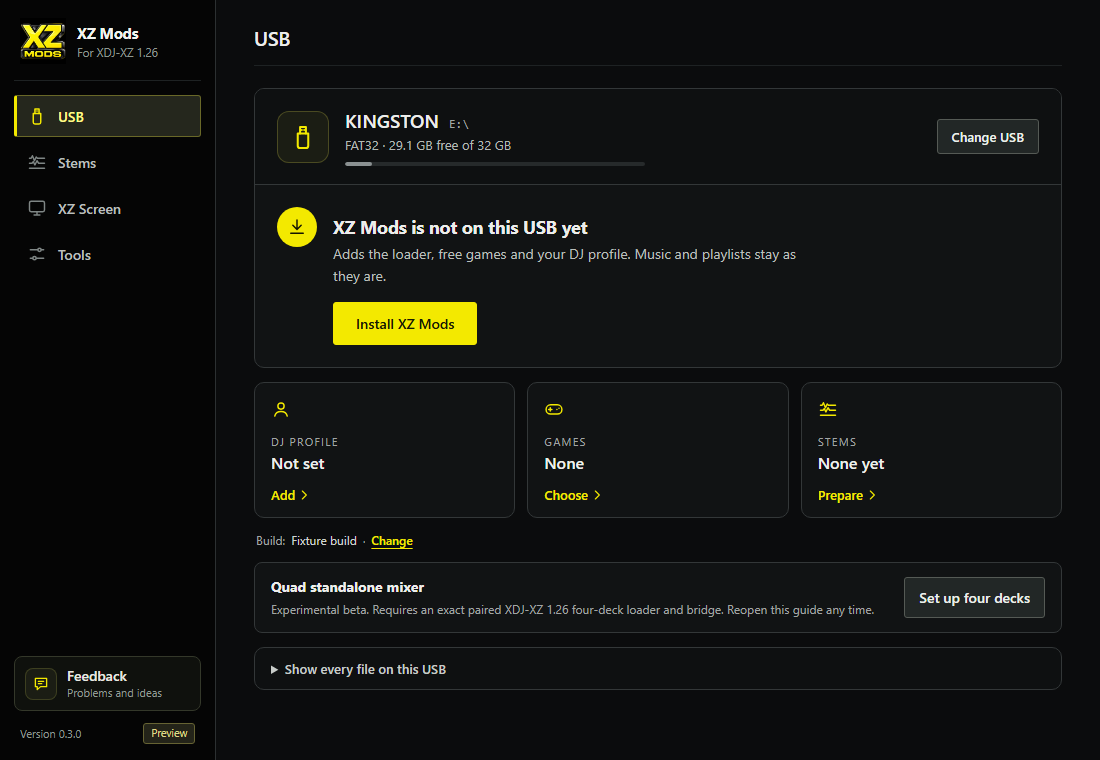
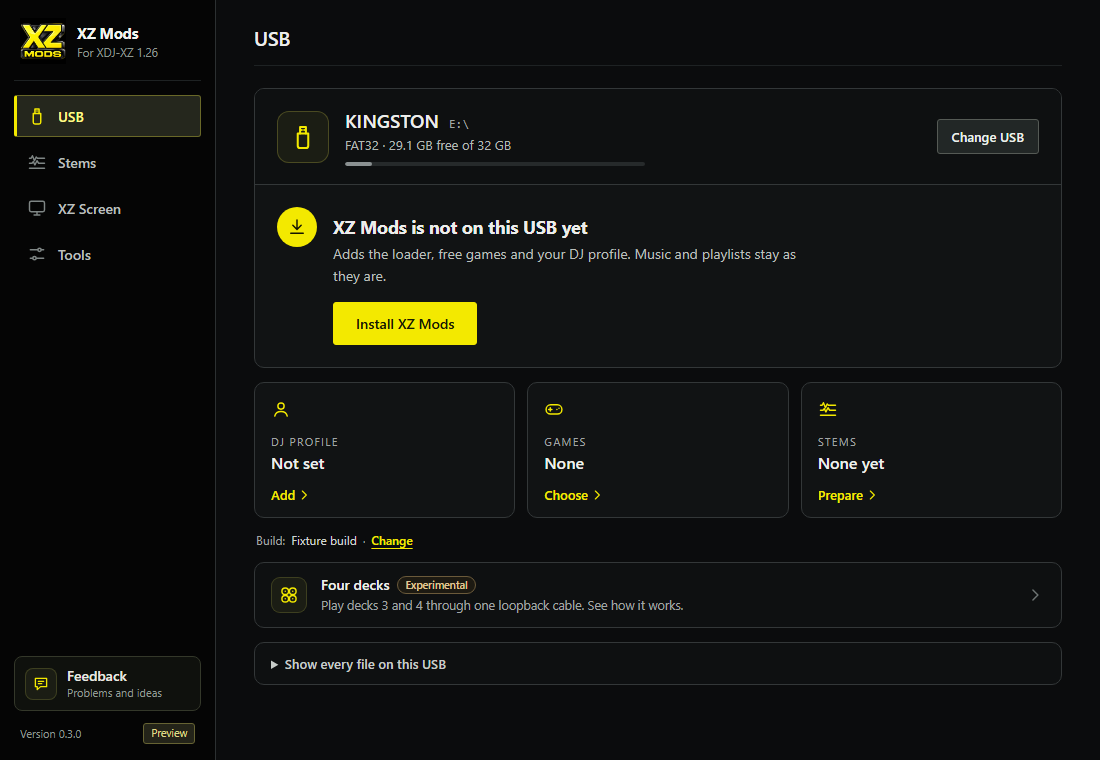
Manual: About, four decks after the write, the rekordbox button
The XZ Mods app chapter describes the new About page, the install guide
without a four-deck step (six steps), the Four decks section under a
running write and on the done screen, and the Four decks row on the USB
pages, in a new Four decks in the app section. Getting started drops the
cable guide from the guide's steps; Four decks notes the app shows the
same steps.

Every chapter calls the media button above LINK the rekordbox button,
and the MODS page REKORDBOX BUTTON, as the firmware now does.

The USB, install, Tools and About screenshots are retaken from
verify_setup_wizard and verify_support_reports at 1100 px wide;
install-four-decks now shows the done screen's Four decks section.
Not accepted: build_manual.py check lists them for review.

Changed region(s): [[0.2473, 0.7566, 0.9582, 0.9079]]

diff --git a/manual/chapters/desktop-app.md b/manual/chapters/desktop-app.md
@@ -64,8 +64,8 @@ A fresh USB. XZ Mods is not on it yet, so the one action is Install XZ Mods.
 8 @ 604,442 Games | How many games are on the USB. Choose opens the games list.
 9 @ 870,442 Stems | How many tracks have stems. Prepare opens the Stems section.
 10 @ 430,541 Build | The XZ Mods build that goes on the USB. Change opens XZ Mods version.
-11 @ 1064,598 Set up four decks | The cable guide for four decks. It installs nothing.
-12 @ 464,669 Show every file | A read-only list of what XZ Mods keeps on this USB.
+11 @ 1064,595 Four decks | How four decks work. It sets nothing up. See [Four decks in the app](#four-decks-in-the-app).
+12 @ 464,664 Show every file | A read-only list of what XZ Mods keeps on this USB.
 13 @ 152,676 Feedback | Reports and ideas for the maintainer. See [Feedback](desktop-app#feedback).
 ```
 
@@ -93,15 +93,15 @@ Every step ends in the same bar. **Back** on the left returns to the step before
 
 1. **Your DJ profile.** Appears when the USB has no profile yet. Type your name and add a logo, or choose **Skip for now** and add it later.
 2. **Choose the screen the XZ shows.** New interface (MODERN) or Standard XDJ-XZ interface (CLASSIC). See [Getting started](getting-started#choose-modern-or-classic).
-3. **Four decks.** The cable guide for decks 3 and 4. **Skip for now** if you play two decks. See [Four decks](four-decks).
-4. **Ready to write.** A checklist of everything the write will do.
-5. **Writing.** The progress of each part.
-6. **Done.** What was written and what to do on the XZ.
-7. **Optional support.** A thank-you page with a voluntary support link. Every feature works whether you contribute or not.
+3. **Ready to write.** A checklist of everything the write will do.
+4. **Writing.** The progress of each part. Underneath, the app explains four decks while you wait.
+5. **Done.** What was written, what to do on the XZ, and how four decks work.
+6. **Optional support.** A thank-you page with a voluntary support link. Every feature works whether you contribute or not.
+
+Four decks is not a step of the guide. Nothing about it happens while the USB is written: you set it up at the player, whenever you want. See [Four decks in the app](#four-decks-in-the-app).
 
 ```gallery
 app:install-profile Your DJ profile. Skip for now leaves it for later
-app:install-four-decks The four-deck cable guide, with the cable animation
 ```
 
 ```figure app:install-screen XZ Mods app · Install XZ Mods
@@ -136,16 +136,16 @@ Beat Arcade, Wave Rider, Rhythm Lab and Static Surfer are built into the loader 
 Press **Write to USB** in the bar under the checklist. If a newer build needs a setting changed on the USB, the app first asks in **Adjust USB settings for this version**. It saves a copy of the settings file first and puts it back if the loader write fails.
 
 ```figure app:install-done XZ Mods app · Install XZ Mods
-Your USB is ready.
+Your USB is ready. Four decks and the optional support link follow further down.
 1 @ 757,180 Result | Your USB is ready, or Finished, with something to check.
-2 @ 520,246 What was written | One line per part. A game that did not download says why.
-3 @ 1020,340 Set up four decks | Opens the cable guide again.
-4 @ 757,408 Support XZ Mods | The optional support page.
-5 @ 372,455 On the XZ | What to do with the USB next.
+2 @ 575,246 What was written | One line per part. A game that did not download says why.
+3 @ 372,319 On the XZ | What to do with the USB next, and how to switch between CLASSIC and MODERN with the rekordbox button above LINK.
+4 @ 490,554 Four decks | How four decks work. See [Four decks in the app](#four-decks-in-the-app).
+5 @ 808,728 Done | Back to the dashboard.
 6 @ 1062,728 Eject USB | Ejects the USB so you can unplug it.
-7 @ 808,728 Done | Back to the dashboard.
-8 @ 505,629 Eject by itself | Ejects the USB on its own after the next write.
 ```
+
+Under Four decks, **Support XZ Mods (optional)** opens the optional support page, and **Eject the USB by itself next time** ejects the USB on its own after the next write.
 
 If a game download failed, **Retry the failed games** tries only those, and the USB is not ejected until you have. When the write also saved a DJ profile, **Make the profile track** opens the profile track steps.
 
@@ -153,6 +153,21 @@ If a game download failed, **Retry the failed games** tries only those, and the 
 app:install-writing Writing. The progress of each part shows inside the guide
 app:install-ejected The USB is ejected and can be unplugged
 ```
+
+### Four decks in the app {experimental}
+
+[Four decks](four-decks) is set up at the player, so the app explains it rather than asking you to do anything. The USB list and the dashboard show a **Four decks** row. While a USB is written, and again on the done screen, a Four decks section shows the cable animation and the three things to do at the player.
+
+```figure app:install-four-decks XZ Mods app · Install XZ Mods
+The Four decks section on the done screen.
+1 @ 490,51 Four decks | Experimental. Nothing to do now. You set it up at the player when you want it.
+2 @ 560,300 Cable animation | The loopback cable from the rear USB-B socket to top USB 1.
+3 @ 1006,387 Pause cable animation | Stops and starts the animation. With reduced motion turned on, the app shows a still picture.
+4 @ 650,500 At the player | Cable from the rear USB-B socket to top USB 1, the music stick in USB 2, and CH3 and CH4 set to USB.
+5 @ 478,553 How four decks work | Opens the [Four decks](four-decks) chapter of this manual.
+```
+
+**How four decks work** and the **Four decks** row both open the Four decks chapter of this manual. If the build just written has no four-deck engine, the section says so and offers **Choose the four-deck build**, which opens the four-deck build choice in [XZ Mods version](#xz-mods-version). Save it, then update the USB.
 
 ## Stems
 
@@ -289,7 +304,7 @@ Every tool, in three groups.
 3 @ 453,240 XZ Mods version | Picks which build goes on your USB, or imports one.
 4 @ 456,380 Network updates | Sends the newest XZ Mods to XZs on your network.
 5 @ 424,518 App updates | Checks for a newer app.
-6 @ 789,518 About | The version and open-source licenses.
+6 @ 789,518 About | The app, its maker, links, disclaimers and open-source licenses.
 7 @ 150,655 Feedback | Reports and ideas are not in Tools. They have their own section at the foot of the rail.
 ```
 
@@ -410,12 +425,19 @@ On Windows the app checks for updates by itself at launch and shows **Review upd
 
 ### About
 
-About shows the app version and the open-source licenses.
+About says what XZ Mods is and who makes it, and gathers the links, the disclaimers and the open-source licenses in one place.
 
 ```figure app:about XZ Mods app · About
 About.
-1 @ 518,276 App updates and release notes | Opens App updates.
-2 @ 453,447 Open license notices | Every open-source project XZ Mods uses and its license.
+1 @ 640,135 Version | The app version on this computer.
+2 @ 775,159 Maker | XZ Mods is made by OpticMystic.
+3 @ 620,283 App updates and release notes | Opens App updates.
+4 @ 365,367 The maker | OpticMystic's projects: XZ Mods, VJ.Tools and DJ Profile. Make yours opens DJ Profile.
+5 @ 742,367 Links | The source code, issues and releases on GitHub, xzmods.com and vj.tools. Each opens in your browser.
+6 @ 805,666 Feedback | Opens [Feedback](#feedback) in the app.
+7 @ 920,719 Support XZ Mods (optional) | Voluntary support on Cash App. Every feature stays available.
+8 @ 378,813 Disclaimers | XZ Mods is independent of Pioneer DJ and AlphaTheta, experimental, runs from the USB, and builds its loader from the official firmware for your own use.
+9 @ 960,1012 Open license notices | Every open-source project XZ Mods uses and its license.
 ```
 
 ## Feedback

diff --git a/manual/chapters/hardware.md b/manual/chapters/hardware.md
@@ -16,7 +16,7 @@ The XDJ-XZ from above: the browse section with the touch screen at the top centr
 3 @ 928,106 BACK | Goes up one level, in MODS too.
 4 @ 1062,150 Rotary selector | Turn to move the highlight in MODS, push to select. It drives every MODS page, so you never need the touch screen.
 5 @ 1066,204 SHORTCUT | Opens the SHORTCUT screen as on a stock player. A short MENU on that screen opens MODS.
-6 @ 540,52 Button next to LINK | The media button above LINK. XZ Mods lets you choose what it does, alone and with SHIFT.
+6 @ 540,52 rekordbox button | The media button above LINK, printed rekordbox. XZ Mods lets you choose what it does, alone and with SHIFT.
 7 @ 536,107 LINK | Its stock job. It can also switch the VJ.Tools view on and off.
 8 @ 536,225 TIME MODE and DECK QUANTIZE | Stock on decks 1 and 2. While a side drives deck 3 or 4 they also reach the software decks.
 9 @ 1066,260 LOAD 1, LOAD 2 | Load into the deck that side controls now: deck 1 or 3 on the left, deck 2 or 4 on the right.
@@ -34,8 +34,8 @@ The XDJ-XZ from above: the browse section with the touch screen at the top centr
 | [[BACK]] | Goes up one level. In MODS it steps from an open item to its page, then to the section rail. |
 | Rotary selector, turn | Moves the highlight to the next card, row or button in MODS. On a beat jump pair, after a push, it steps the jump size. |
 | Rotary selector, push | Opens or changes the highlighted item in MODS. |
-| Button next to LINK | Does what you chose in MODS > PLAY > BUTTON NEXT TO LINK. The default is INTERFACE. |
-| [[SHIFT]] + button next to LINK | Hold [[SHIFT]] on either deck and press it. Does the second choice on the same page. The default is ITS OWN JOB. |
+| rekordbox button | Does what you chose in MODS > PLAY > REKORDBOX BUTTON. The default is INTERFACE. |
+| [[SHIFT]] + rekordbox button | Hold [[SHIFT]] on either deck and press it. Does the second choice on the same page. The default is ITS OWN JOB. |
 | [[LINK]] | Its stock job. With the screen switch key set to LINK it also switches the VJ.Tools view on and off. |
 | [[SHORTCUT]] | Opens the SHORTCUT screen. In MODERN this is MODERN's own SHORTCUT screen. |
 | [[LOAD]] 1, 2 | Loads the highlighted track into the deck that side controls: deck 1 or 3, deck 2 or 4. |
@@ -46,13 +46,13 @@ A short press of [[MENU]] keeps the job the player's own firmware gives it where
 ```generated menu-key
 ```
 
-## The button next to LINK
+## The rekordbox button
 
-The XDJ-XZ has a media button directly above [[LINK]]. On a stock player it opens the library of a computer or phone connected to the player. XZ Mods gives it two slots: a plain press, and a press while [[SHIFT]] is held on either deck. Set them in MODS > PLAY > BUTTON NEXT TO LINK.
+The XDJ-XZ has a media button directly above [[LINK]]. On a stock player it opens the library of a computer or phone connected to the player. XZ Mods gives it two slots: a plain press, and a press while [[SHIFT]] is held on either deck. Set them in MODS > PLAY > REKORDBOX BUTTON.
 
-```figure classic:theme-{look}-buttons MODS · BUTTON NEXT TO LINK
+```figure classic:theme-{look}-buttons MODS · REKORDBOX BUTTON
 Both slots at their defaults. A press switches the interface, and SHIFT + press keeps the button's own job.
-1 @ 398,92 Media buttons | The four media buttons as they sit on the player, with the button next to LINK highlighted.
+1 @ 398,92 Media buttons | The four media buttons as they sit on the player, with the rekordbox button highlighted.
 2 @ 185,92 PRESS | What a plain press does. The filled choice is the current one.
 3 @ 420,204 What it does | One line explaining the current PRESS choice.
 4 @ 225,228 SHIFT + PRESS | What the button does while SHIFT is held on either deck.
@@ -70,7 +70,7 @@ Both slots at their defaults. A press switches the interface, and SHIFT + press 
 | DECK VIEW | Steps DECK VIEW: 2 DECKS, 4 DECKS in number order 1 2 3 4, 4 DECKS in mixer order 3 1 2 4, then 2 DECKS again. It saves the choice and shows the new view in a short notice. |
 | NOTHING | The button does nothing. |
 
-> **Tip.** With the default INTERFACE on a plain press, you can always get back to MODS without touching the screen: press [[MENU]] on the play screen, or switch interface with the button next to LINK and press [[MENU]] there.
+> **Tip.** With the default INTERFACE on a plain press, you can always get back to MODS without touching the screen: press [[MENU]] on the play screen, or switch interface with the rekordbox button and press [[MENU]] there.
 
 ## LINK and the VJ.Tools view
 
@@ -81,7 +81,7 @@ When VJ.Tools on a computer is connected, the player's screen can show the VJ.To
 | LINK (default) | Pressing [[LINK]]. [[LINK]] also keeps its stock job. |
 | ONSCREEN | A VJ.Tools button on the screen, in the corner opposite MODS. |
 
-To switch the view with the button next to LINK instead, set that button to VJ.TOOLS SCREEN. See [Connect and DJ profiles](connect) for the connection itself.
+To switch the view with the rekordbox button instead, set that button to VJ.TOOLS SCREEN. See [Connect and DJ profiles](connect) for the connection itself.
 
 ## Deck keys
 
@@ -179,7 +179,7 @@ If the loopback route goes down, both sides go back to decks 1 and 2. [Four deck
 |---|---|
 | [[MENU]] opens a stock menu instead of MODS | That screen has its own MENU job. Press [[BACK]] to the play screen, then press [[MENU]]. |
 | [[MENU]] opens UTILITY | You held it. A short press opens MODS. |
-| The button next to LINK does nothing | It is set to NOTHING. Change it in MODS > PLAY > BUTTON NEXT TO LINK. |
+| The rekordbox button does nothing | It is set to NOTHING. Change it in MODS > PLAY > REKORDBOX BUTTON. |
 | [[SHIFT]] twice shows DECK 3 AND 4 NEED THE CH3/CH4 ROUTE | Decks 3 and 4 are not connected. Open MODS > 4 DECKS. |
 | The TEMPO slider does not change the deck | Pickup after a deck switch. Move the slider through the deck's tempo. |
 | A key sync press shows a message on the deck's key | See [Keys and KEY SYNC](performance#keys-and-key-sync). |

diff --git a/manual/chapters/getting-started.md b/manual/chapters/getting-started.md
@@ -42,7 +42,7 @@ You prepare the USB in the XZ Mods app on your computer. It does not format the 
 1. Install the XZ Mods app and open it.
 2. Plug in your USB. The app finds it and opens it. With several USBs plugged in, choose yours from the list.
 3. Choose **Install XZ Mods**.
-4. Follow the short guide: your DJ profile, the screen the XZ starts with, the four-deck cable guide, then a checklist of what it will write. **Back** returns to the step before.
+4. Follow the short guide: your DJ profile, the screen the XZ starts with, then a checklist of what it will write. **Back** returns to the step before.
 5. Choose **Write to USB**, then **Eject USB**.
 
 ```figure app:install-review XZ Mods app · Install XZ Mods
@@ -104,7 +104,7 @@ Choose the screen the XZ shows. New interface is MODERN, Standard XDJ-XZ interfa
 
 There are two ways to switch.
 
-- Press the button next to LINK. Out of the box it switches between MODERN and CLASSIC, and the screen says which one you are in. You can give it another job in **PLAY** › **BUTTON NEXT TO LINK**.
+- Press the rekordbox button above LINK. Out of the box it switches between MODERN and CLASSIC, and the screen says which one you are in. You can give it another job in **PLAY** › **REKORDBOX BUTTON**.
 - Open MODS, go to **SCREEN** and choose **CLASSIC** or **MODERN** under **INTERFACE**.
 
 ```figure classic:theme-{look}-screen MODS · SCREEN
@@ -117,7 +117,7 @@ INTERFACE is the first choice on the SCREEN page.
 6 @ 715,442 Save state | Confirms the change is saved to the USB.
 ```
 
-> **Tip.** You can always reach MODS with the hardware alone. In CLASSIC, the button next to LINK takes you to MODERN, where [[MENU]] opens MODS, and the encoder and [[BACK]] drive it.
+> **Tip.** You can always reach MODS with the hardware alone. In CLASSIC, the rekordbox button takes you to MODERN, where [[MENU]] opens MODS, and the encoder and [[BACK]] drive it.
 
 ## Updating
 

diff --git a/manual/chapters/performance.md b/manual/chapters/performance.md
@@ -10,13 +10,13 @@ XZ Mods adds performance features to the pads and deck keys: two pages of beat j
 Open MODS and choose PLAY in the section rail.
 
 ```figure classic:theme-{look}-play MODS · PLAY
-The PLAY page with the default settings: gate cue and smart cue off, the default jump sizes, and the button next to LINK on INTERFACE.
+The PLAY page with the default settings: gate cue and smart cue off, the default jump sizes, and the rekordbox button above LINK on INTERFACE.
 1 @ 300,84 BEAT JUMP PADS | Opens the beat jump editor. The numbers are your page 1 and page 2 sizes in beats.
 2 @ 250,132 GATE CUE | Hot cues play only while you hold the pad. Off by default.
 3 @ 600,132 SMART CUE | A hot cue press also moves the CUE point there. Off by default.
 4 @ 230,196 KEYS | Opens the key page: key shift and KEY SYNC for all four decks.
 5 @ 605,196 RAM TRACKS | Opens RAM TRACKS: copy a deck's track into memory.
-6 @ 350,260 BUTTON NEXT TO LINK | What the media button above LINK does, alone and with SHIFT. See Controls on the player.
+6 @ 350,260 REKORDBOX BUTTON | What the rekordbox button does, alone and with SHIFT. See Controls on the player.
 7 @ 200,425 Dock | Explains the highlighted row in plain words.
 8 @ 718,425 Works on | The decks the highlighted feature works on, in mixer order 3 1 2 4. A dim number is a deck it does not work on, with the reason below.
 ```

diff --git a/manual/chapters/four-decks.md b/manual/chapters/four-decks.md
@@ -29,6 +29,8 @@ The cable goes from the rear USB socket to a top USB port. In this version the s
 
 The XZ keeps looking for the cable on its own. You never have to restart anything. **RESCAN** checks at once.
 
+> **Note.** The [XZ Mods app](desktop-app#four-decks-in-the-app) shows steps 2 to 5 with an animation of the cable while it writes your USB and when it is done. You set four decks up at the player, not in the app.
+
 > **Tip.** You can choose a four-deck view before you plug in the cable. Decks 3 and 4 then show a card with the cable steps and their current state, and decks 1 and 2 keep playing as usual.
 
 ## The 4 DECKS page in MODS
@@ -138,7 +140,7 @@ DECK VIEW is saved to the USB with your other settings. You can change it in fiv
 - **TWO DECKS** on the card;
 - MODS > **SCREEN** > **DECK VIEW**;
 - MODS > **4 DECKS** > **DECK VIEW**;
-- the button next to LINK, when you set it to **DECK VIEW** in MODS > PLAY > **BUTTON NEXT TO LINK**. Each press then steps 2 DECKS, 4 DECKS in number order, 4 DECKS in mixer order.
+- the rekordbox button above LINK, when you set it to **DECK VIEW** in MODS > PLAY > **REKORDBOX BUTTON**. Each press then steps 2 DECKS, 4 DECKS in number order, 4 DECKS in mixer order.
 
 ### The DECKS button and its picker
 

diff --git a/manual/chapters/mods-menu.md b/manual/chapters/mods-menu.md
@@ -16,7 +16,7 @@ Press [[MENU]] on the play screen. A short press opens MODS wherever the player'
 
 To leave MODS, press [[MENU]] again, tap **CLOSE** in the top right corner, or press [[BACK]] until you are back on the play screen.
 
-You can also open MODS from the **MODS** button at the top of the MODERN play screen, or from the button next to LINK when you set it to **MODS MENU** in [PLAY](#play).
+You can also open MODS from the **MODS** button at the top of the MODERN play screen, or from the rekordbox button above LINK when you set it to **MODS MENU** in [PLAY](#play).
 
 ## Move around
 
@@ -69,7 +69,7 @@ PLAY changes what the pads and buttons do while you perform.
 1 @ 128,84 BEAT JUMP PADS | Your own beat jump distances for both pad pages. The row shows the sizes now in use.
 2 @ 128,132 GATE CUE and SMART CUE | Switch each cue trick on or off. A feature the player has not reported yet shows a SET UP button instead.
 3 @ 462,196 KEYS and RAM TRACKS | Open their own pages.
-4 @ 128,260 BUTTON NEXT TO LINK | What the media button next to LINK does on a press, and with SHIFT.
+4 @ 128,260 REKORDBOX BUTTON | What the rekordbox button does on a press, and with SHIFT.
 5 @ 722,425 WORKS ON | The decks the highlighted feature works on.
 ```
 

diff --git a/manual/chapters/connect.md b/manual/chapters/connect.md
@@ -129,7 +129,7 @@ classic:theme-24-connection Waiting for VJ.Tools. The link controls are read onl
 
 When a link control shows **READ ONLY**, MODS cannot change it on this player. Pushing it shows **CONTROL IS NOT AVAILABLE**.
 
-To switch the view without opening MODS, use the key you chose under SCREEN SWITCH KEY. You can also give the button next to LINK the job **VJ.TOOLS SCREEN** in **PLAY** › **BUTTON NEXT TO LINK**. It needs an enabled, connected VJ.Tools link, and says so when there is none. In CLASSIC, a **VJ.TOOLS** button can appear on the top bar. It reads **EXIT VJ** while the view is on.
+To switch the view without opening MODS, use the key you chose under SCREEN SWITCH KEY. You can also give the rekordbox button above LINK the job **VJ.TOOLS SCREEN** in **PLAY** › **REKORDBOX BUTTON**. It needs an enabled, connected VJ.Tools link, and says so when there is none. In CLASSIC, a **VJ.TOOLS** button can appear on the top bar. It reads **EXIT VJ** while the view is on.
 
 > **Experimental.** The VJ.Tools view has shown video on the player during development. Long playback and touch while the view is on have not been accepted yet. Keep it off during a set unless you have tested it.
 

diff --git a/manual/chapters/screen-and-themes.md b/manual/chapters/screen-and-themes.md
@@ -61,7 +61,7 @@ XZ Mods gives the player two interfaces. You choose one with **INTERFACE** on th
 
 Each interface keeps its own theme. If you switch from CLASSIC to MODERN and back, your classic theme comes back with you.
 
-To switch without opening MODS, press the button next to **LINK**. Out of the box it switches between MODERN and CLASSIC. You can give it another job in **PLAY** › **BUTTON NEXT TO LINK**. See [Controls on the player](hardware).
+To switch without opening MODS, press the rekordbox button above **LINK**. Out of the box it switches between MODERN and CLASSIC. You can give it another job in **PLAY** › **REKORDBOX BUTTON**. See [Controls on the player](hardware).
 
 ```figure modern:play-full MODERN play screen {modern}
 The MODERN play screen with two decks, 3-BAND waveforms and the playing key shown.

diff --git a/manual/chapters/troubleshooting.md b/manual/chapters/troubleshooting.md
@@ -26,7 +26,7 @@ If XZ Mods started after a network update and stopped working, open **CONNECT** 
 
 If the sound goes wrong while you test, stop playback and switch the player off and on. Load the same track again and check the original mix before you go on.
 
-> **Tip.** MODS is always reachable with the hardware alone. In CLASSIC, the button next to LINK switches to MODERN, where [[MENU]] opens MODS. Turn the encoder to move, push it to choose and press [[BACK]] to go back.
+> **Tip.** MODS is always reachable with the hardware alone. In CLASSIC, the rekordbox button above LINK switches to MODERN, where [[MENU]] opens MODS. Turn the encoder to move, push it to choose and press [[BACK]] to go back.
 
 ## Stems on the USB
 
